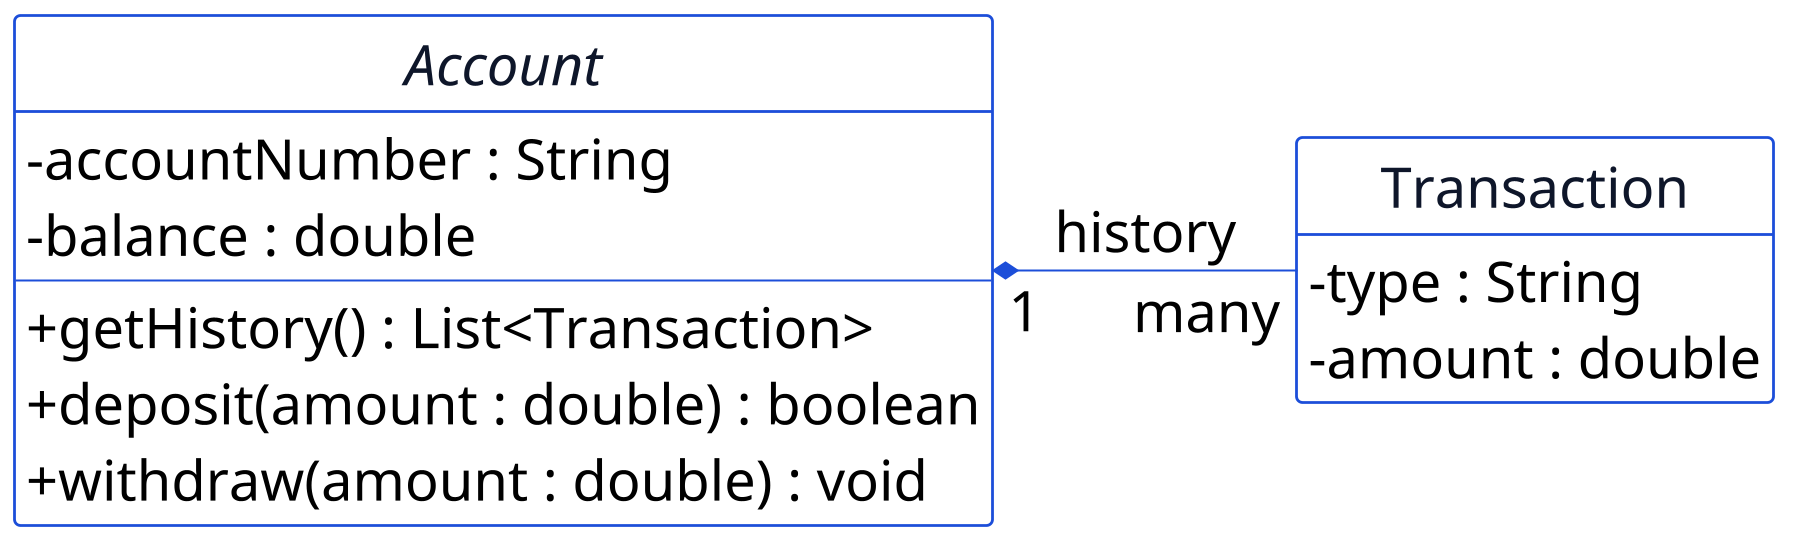
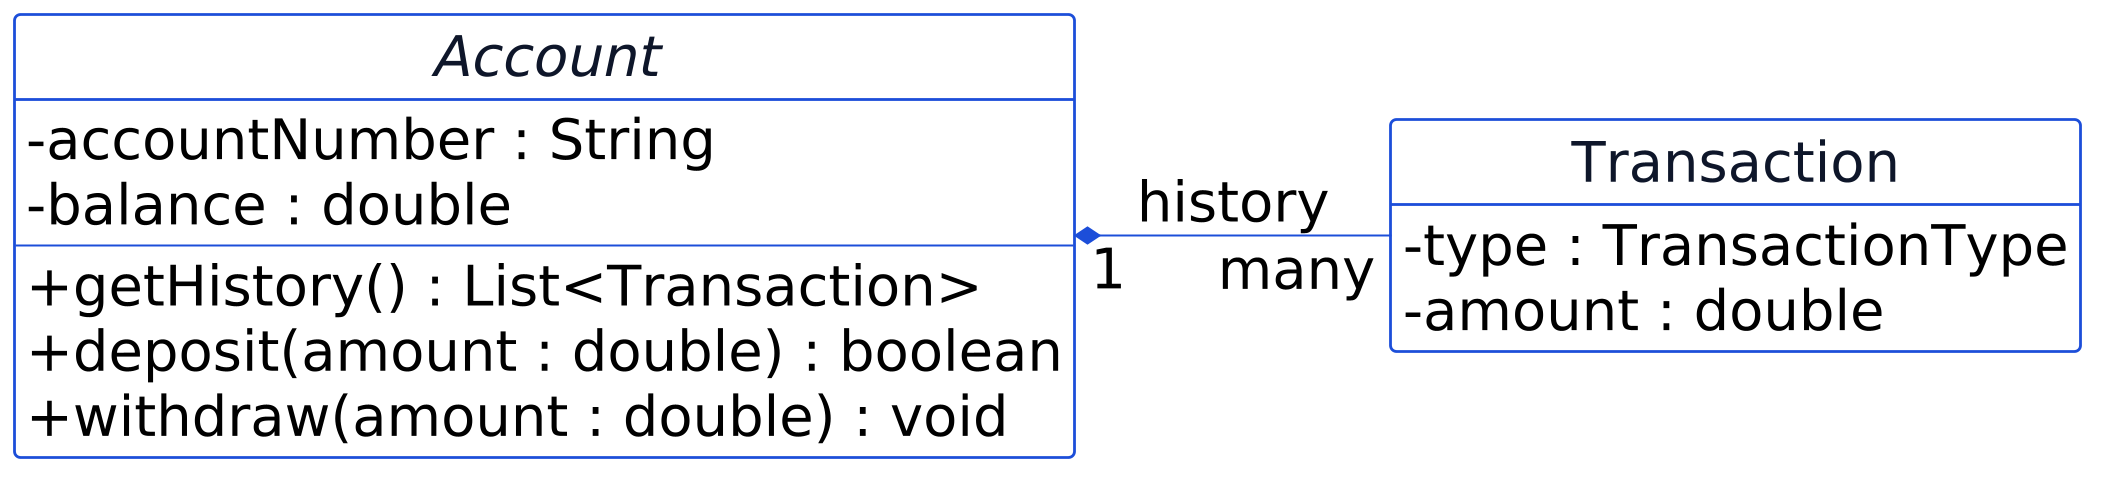
Transaction: replace String type with TransactionType enum
Transaction.type held only "DEPOSIT"/"WITHDRAW" as a String, so a typo
compiled silently and only broke at runtime. Replaces it with an enum
across all 10 code-src snapshots that carry the class (Pertemuan 11,
13, 14, 15), fixing a stale-file bug in the same change: the new
TransactionType.java wasn't covered by Pertemuan 13's package-reorg
.delete manifest, so it silently duplicated into the parent package in
every later checkpoint until added there.

Also adds two "Konsep Singkat" callouts to the Pertemuan 11 jobsheet
(id/en) since neither concept is taught elsewhere in the course: enum
(where Transaction is introduced) and generics, both consumption
(Map<String, Account>) and declaring a generic interface yourself
(an illustrative Repository<T> example, not applied to the real
AccountRepository).

Claude-Session: https://claude.ai/code/session_01K4ZRQ7V4mUbnmMMYj4UxMN

diff --git a/jobsheets/assets/code-src/pertemuan-11/langkah-02/id/ac/polinema/Account.java b/jobsheets/assets/code-src/pertemuan-11/langkah-02/id/ac/polinema/Account.java
@@ -36,7 +36,7 @@ public abstract class Account {
             return false;
         }
         balance += amount;
-        history.add(new Transaction("DEPOSIT", amount));
+        history.add(new Transaction(TransactionType.DEPOSIT, amount));
         return true;
     }
 
@@ -54,7 +54,7 @@ public abstract class Account {
                     accountNumber + ": insufficient balance for a withdrawal of " + amount);
         }
         balance -= amount;
-        history.add(new Transaction("WITHDRAW", amount));
+        history.add(new Transaction(TransactionType.WITHDRAW, amount));
     }
 
     protected boolean canWithdraw(double amount) {

diff --git a/jobsheets/assets/code-src/pertemuan-11/langkah-03/id/ac/polinema/Account.java b/jobsheets/assets/code-src/pertemuan-11/langkah-03/id/ac/polinema/Account.java
@@ -36,7 +36,7 @@ public abstract class Account {
             return false;
         }
         balance += amount;
-        history.add(new Transaction("DEPOSIT", amount));
+        history.add(new Transaction(TransactionType.DEPOSIT, amount));
         return true;
     }
 
@@ -54,7 +54,7 @@ public abstract class Account {
                     accountNumber + ": insufficient balance for a withdrawal of " + amount);
         }
         balance -= amount;
-        history.add(new Transaction("WITHDRAW", amount));
+        history.add(new Transaction(TransactionType.WITHDRAW, amount));
     }
 
     protected boolean canWithdraw(double amount) {

diff --git a/jobsheets/assets/code-src/pertemuan-11/tugas/id/ac/polinema/Account.java b/jobsheets/assets/code-src/pertemuan-11/tugas/id/ac/polinema/Account.java
@@ -36,7 +36,7 @@ public abstract class Account {
             return false;
         }
         balance += amount;
-        history.add(new Transaction("DEPOSIT", amount));
+        history.add(new Transaction(TransactionType.DEPOSIT, amount));
         return true;
     }
 
@@ -54,7 +54,7 @@ public abstract class Account {
                     accountNumber + ": insufficient balance for a withdrawal of " + amount);
         }
         balance -= amount;
-        history.add(new Transaction("WITHDRAW", amount));
+        history.add(new Transaction(TransactionType.WITHDRAW, amount));
     }
 
     protected boolean canWithdraw(double amount) {

diff --git a/jobsheets/assets/code-src/pertemuan-13/langkah-01/id/ac/polinema/model/Account.java b/jobsheets/assets/code-src/pertemuan-13/langkah-01/id/ac/polinema/model/Account.java
@@ -36,7 +36,7 @@ public abstract class Account {
             return false;
         }
         balance += amount;
-        history.add(new Transaction("DEPOSIT", amount));
+        history.add(new Transaction(TransactionType.DEPOSIT, amount));
         return true;
     }
 
@@ -54,7 +54,7 @@ public abstract class Account {
                     accountNumber + ": insufficient balance for a withdrawal of " + amount);
         }
         balance -= amount;
-        history.add(new Transaction("WITHDRAW", amount));
+        history.add(new Transaction(TransactionType.WITHDRAW, amount));
     }
 
     protected boolean canWithdraw(double amount) {

diff --git a/jobsheets/assets/code-src/pertemuan-13/langkah-02/id/ac/polinema/model/Account.java b/jobsheets/assets/code-src/pertemuan-13/langkah-02/id/ac/polinema/model/Account.java
@@ -36,7 +36,7 @@ public abstract class Account {
             return false;
         }
         balance += amount;
-        history.add(new Transaction("DEPOSIT", amount));
+        history.add(new Transaction(TransactionType.DEPOSIT, amount));
         return true;
     }
 
@@ -54,7 +54,7 @@ public abstract class Account {
                     accountNumber + ": insufficient balance for a withdrawal of " + amount);
         }
         balance -= amount;
-        history.add(new Transaction("WITHDRAW", amount));
+        history.add(new Transaction(TransactionType.WITHDRAW, amount));
     }
 
     protected boolean canWithdraw(double amount) {

diff --git a/jobsheets/assets/code-src/pertemuan-14/langkah-01/id/ac/polinema/model/Account.java b/jobsheets/assets/code-src/pertemuan-14/langkah-01/id/ac/polinema/model/Account.java
@@ -36,7 +36,7 @@ public abstract class Account {
             return false;
         }
         balance += amount;
-        history.add(new Transaction("DEPOSIT", amount));
+        history.add(new Transaction(TransactionType.DEPOSIT, amount));
         return true;
     }
 
@@ -54,7 +54,7 @@ public abstract class Account {
                     accountNumber + ": insufficient balance for a withdrawal of " + amount);
         }
         balance -= amount;
-        history.add(new Transaction("WITHDRAW", amount));
+        history.add(new Transaction(TransactionType.WITHDRAW, amount));
     }
 
     protected boolean canWithdraw(double amount) {

diff --git a/jobsheets/assets/code-src/pertemuan-14/langkah-02/id/ac/polinema/model/Account.java b/jobsheets/assets/code-src/pertemuan-14/langkah-02/id/ac/polinema/model/Account.java
@@ -36,7 +36,7 @@ public abstract class Account {
             return false;
         }
         balance += amount;
-        history.add(new Transaction("DEPOSIT", amount));
+        history.add(new Transaction(TransactionType.DEPOSIT, amount));
         return true;
     }
 
@@ -54,7 +54,7 @@ public abstract class Account {
                     accountNumber + ": insufficient balance for a withdrawal of " + amount);
         }
         balance -= amount;
-        history.add(new Transaction("WITHDRAW", amount));
+        history.add(new Transaction(TransactionType.WITHDRAW, amount));
     }
 
     protected boolean canWithdraw(double amount) {

diff --git a/jobsheets/assets/code-src/pertemuan-14/tugas/id/ac/polinema/model/Account.java b/jobsheets/assets/code-src/pertemuan-14/tugas/id/ac/polinema/model/Account.java
@@ -36,7 +36,7 @@ public abstract class Account {
             return false;
         }
         balance += amount;
-        history.add(new Transaction("DEPOSIT", amount));
+        history.add(new Transaction(TransactionType.DEPOSIT, amount));
         return true;
     }
 
@@ -54,7 +54,7 @@ public abstract class Account {
                     accountNumber + ": insufficient balance for a withdrawal of " + amount);
         }
         balance -= amount;
-        history.add(new Transaction("WITHDRAW", amount));
+        history.add(new Transaction(TransactionType.WITHDRAW, amount));
     }
 
     protected boolean canWithdraw(double amount) {

diff --git a/jobsheets/assets/code-src/pertemuan-15/langkah-01/id/ac/polinema/model/Account.java b/jobsheets/assets/code-src/pertemuan-15/langkah-01/id/ac/polinema/model/Account.java
@@ -36,7 +36,7 @@ public abstract class Account {
             return false;
         }
         balance += amount;
-        history.add(new Transaction("DEPOSIT", amount));
+        history.add(new Transaction(TransactionType.DEPOSIT, amount));
         return true;
     }
 
@@ -54,7 +54,7 @@ public abstract class Account {
                     accountNumber + ": insufficient balance for a withdrawal of " + amount);
         }
         balance -= amount;
-        history.add(new Transaction("WITHDRAW", amount));
+        history.add(new Transaction(TransactionType.WITHDRAW, amount));
     }
 
     protected boolean canWithdraw(double amount) {

diff --git a/jobsheets/assets/code-src/pertemuan-15/tugas/id/ac/polinema/model/Account.java b/jobsheets/assets/code-src/pertemuan-15/tugas/id/ac/polinema/model/Account.java
@@ -36,7 +36,7 @@ public abstract class Account {
             return false;
         }
         balance += amount;
-        history.add(new Transaction("DEPOSIT", amount));
+        history.add(new Transaction(TransactionType.DEPOSIT, amount));
         return true;
     }
 
@@ -54,7 +54,7 @@ public abstract class Account {
                     accountNumber + ": insufficient balance for a withdrawal of " + amount);
         }
         balance -= amount;
-        history.add(new Transaction("WITHDRAW", amount));
+        history.add(new Transaction(TransactionType.WITHDRAW, amount));
     }
 
     protected boolean canWithdraw(double amount) {

diff --git a/scripts/gen-manifest.py b/scripts/gen-manifest.py
@@ -187,6 +187,7 @@ def rows_p11():
     return [
         (p10("langkah-02"), "Bank.java", p11("langkah-01"), "Bank.java", "p11-01-bank"),
         (p10("langkah-02"), "Main.java", p11("langkah-01"), "Main.java", "p11-01-main"),
+        (None, None, p11("langkah-02"), "TransactionType.java", "p11-02-transactiontype"),
         (None, None, p11("langkah-02"), "Transaction.java", "p11-02-transaction"),
         (p11("langkah-01"), "Account.java", p11("langkah-02"), "Account.java", "p11-02-account",
          [(1, 6), (10, 10), (34, 41), (51, 58)]),

diff --git a/jobsheets/assets/code-src/pertemuan-13/langkah-01/id/ac/polinema/model/Transaction.java b/jobsheets/assets/code-src/pertemuan-13/langkah-01/id/ac/polinema/model/Transaction.java
@@ -1,15 +1,15 @@
 package id.ac.polinema.model;
 
 public class Transaction {
-    private String type;
+    private TransactionType type;
     private double amount;
 
-    public Transaction(String type, double amount) {
+    public Transaction(TransactionType type, double amount) {
         this.type = type;
         this.amount = amount;
     }
 
-    public String getType() {
+    public TransactionType getType() {
         return type;
     }
 
